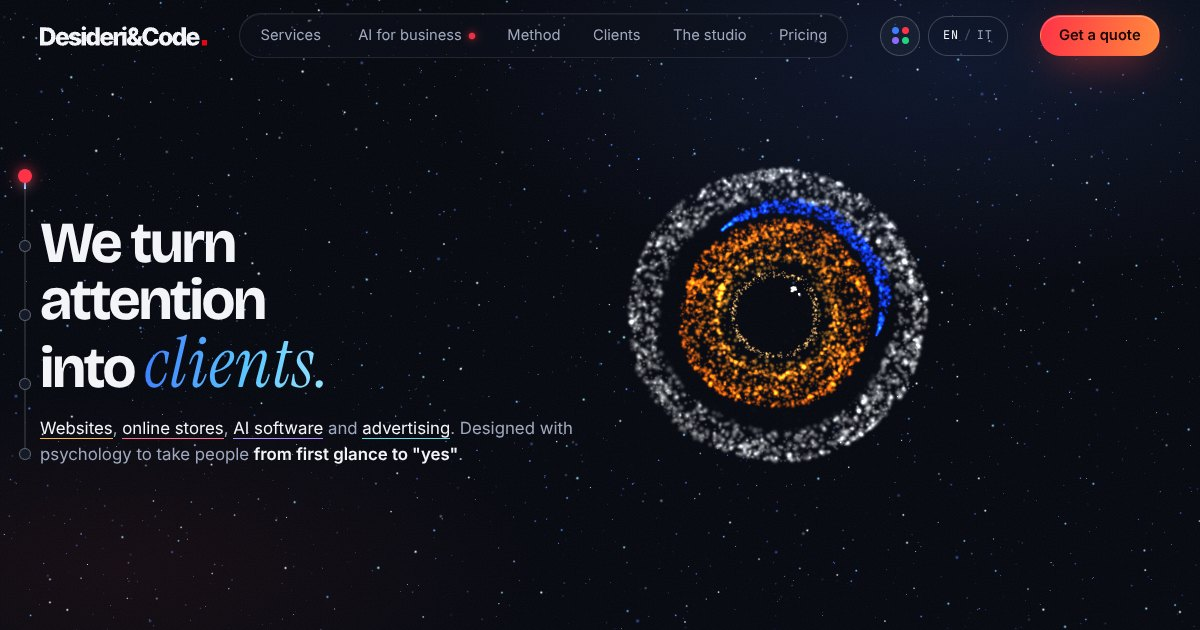
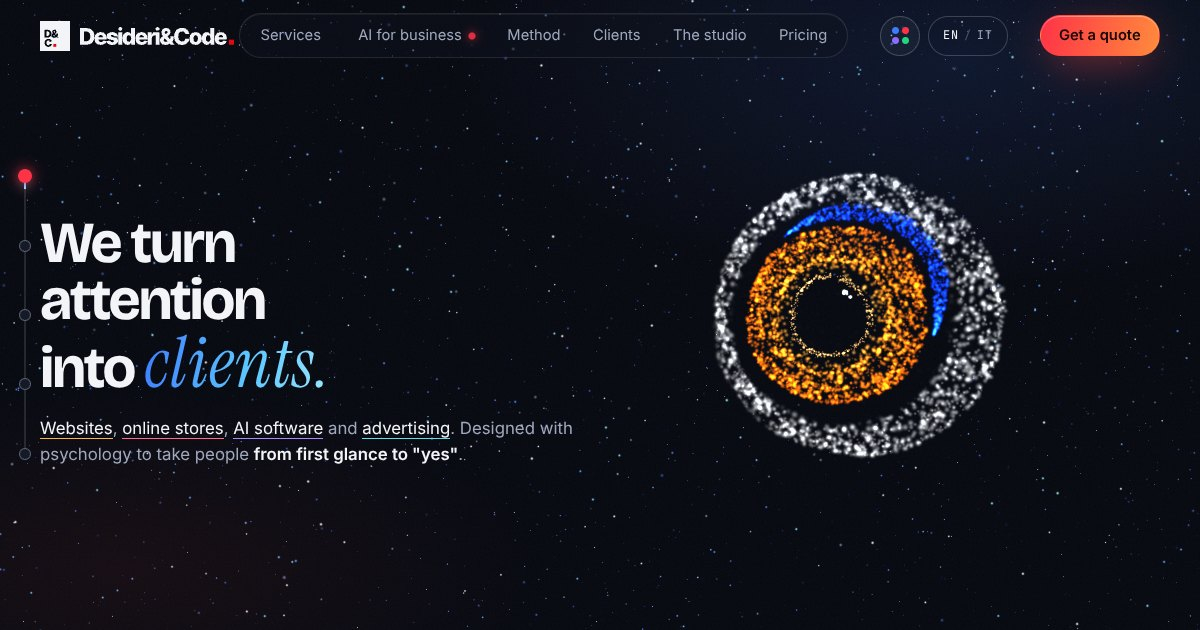
Header con icona e scritta, marchio in fondo al footer su telefono
- Header: l'icona quadrata accanto alla scritta, tutte e due un po' più
  piccole (su telefono ancora di più).
- Footer: l'icona sopra la scritta. Su telefono il marchio chiude il footer,
  centrato sotto privacy e cookie.
- Anteprime dei link rifatte con il nuovo header.

Claude-Session: https://claude.ai/code/session_01NiGGEJbCXDT9DhRUzuRYxp

Changed region(s): [[0.5242, 0.2413, 0.8633, 0.754], [0.0308, 0.0302, 0.2158, 0.0905]]

diff --git a/src/styles/global.css b/src/styles/global.css
@@ -181,9 +181,20 @@ html.intro-fine .intro-punto { animation: intro-esplodi .7s var(--ease) forwards
 .header-bar { display: flex; align-items: center; gap: 2rem; width: 100%; }
 .brand { display: inline-flex; align-items: center; gap: .8rem; text-decoration: none; margin-right: auto; }
 /* logo «Desideri&Code»: lettere nel colore del testo, quadratino rosso fisso (public/brand per gli altri usi) */
-.brand-logo { display: block; color: var(--latte); line-height: 0; }
-.brand-logo svg { display: block; height: 22px; width: auto; }
-@media (max-width: 480px) { .site-header .brand-logo svg { height: 17px; } }
+.brand-logo, .brand-icona { display: block; color: var(--latte); line-height: 0; flex: none; }
+.brand-logo svg { display: block; height: 18px; width: auto; }
+.brand-icona svg { display: block; width: 30px; height: 30px; }
+.site-header .brand { gap: .6rem; }
+@media (max-width: 480px) { .site-header .brand-logo svg { height: 14px; } .site-header .brand-icona svg { width: 26px; height: 26px; } .site-header .brand { gap: .5rem; } }
+/* footer: icona sopra, scritta sotto */
+.brand-impilato { flex-direction: column; align-items: flex-start; gap: .8rem; }
+.brand-impilato .brand-icona svg { width: 56px; height: 56px; }
+.footer-marchio { display: none; text-decoration: none; }
+@media (max-width: 820px) {
+  .footer-grid > div:first-child > .brand { display: none; }
+  .footer-marchio { display: flex; align-items: center; margin: 2.6rem auto 0; width: max-content; }
+  .footer-marchio .brand-logo svg { height: 24px; }
+}
 /* Il punto rosso del logo: lo stimolo che cattura l'attenzione. Pulsa piano, come la spia "REC". */
 .punto-segnale { transform-box: fill-box; transform-origin: center; animation: segnale 2.4s ease-in-out infinite; }
 @keyframes segnale { 0%, 100% { opacity: 1; transform: scale(1); filter: drop-shadow(0 0 3px rgba(255, 51, 71, .9)); } 50% { opacity: .35; transform: scale(.82); filter: drop-shadow(0 0 0 rgba(255, 51, 71, 0)); } }
@@ -191,7 +202,7 @@ html.intro-fine .intro-punto { animation: intro-esplodi .7s var(--ease) forwards
 @media (max-width: 900px) { .site-header .punto-segnale { scale: 1.7; } }
 .footer-grid a.brand { color: var(--latte); }
 .footer-grid .brand-ruolo { margin-top: .9rem; font-size: .68rem; }
-.footer-grid .brand-logo svg { height: 32px; }
+.footer-grid .brand-logo svg { height: 28px; }
 .brand-ruolo { display: block; font-family: var(--f-mono); font-size: .62rem; letter-spacing: .12em; text-transform: uppercase; color: var(--nebbia); margin-top: .3rem; }
 /* Menu a capsula: una luce scivola sotto la voce che guardi; in home si accende la sezione in vista */
 .nav { position: relative; display: flex; align-items: center; gap: 2px; padding: 5px; border-radius: 999px; border: 1px solid var(--linea); background: rgba(var(--sup-rgb),.45); backdrop-filter: blur(14px) saturate(1.3); -webkit-backdrop-filter: blur(14px) saturate(1.3); box-shadow: inset 0 1px 0 rgba(var(--latte-rgb),.06); }

diff --git a/docs/02-benchmark-e-concept-sito.md b/docs/02-benchmark-e-concept-sito.md
@@ -142,7 +142,7 @@ Il nome è **Desideri & Code**. «Studio Desideri» era già usato da un concorr
 - **Icona:** un quadrato nero con «D&» sopra e «C» sotto, bianchi in basso a sinistra, più il quadratino rosso. Serve per favicon, social e app.
 - **Colori:** nero `#0A0A0A`, rosso `#E30613`, bianco `#FFFFFF`. La mascotte (l'occhio) resta il personaggio del sito: intro, scena 3D, demo e messaggi. Non fa più da logo.
 - **File:** le lettere sono tracciati, quindi non serve il font. Si generano con uno script che non è nel repo (gira in una cartella di lavoro, con il font Inter Tight).
-  - `src/assets/logo-scritta.svg` è la scritta per header e footer: le lettere prendono il colore del testo (`currentColor`), il quadratino resta rosso.
+  - `src/assets/logo-scritta.svg` e `src/assets/logo-icona.svg` sono la scritta e l'icona del sito, con lettere e quadrato nel colore del testo (`currentColor`) e il quadratino sempre rosso. Nell'header l'icona sta accanto alla scritta, in piccolo. Nel footer l'icona sta sopra la scritta; su telefono il marchio chiude il footer, in fondo e centrato.
   - In `public/brand/` ci sono la scritta nera e bianca, l'icona (nera, chiara, con angoli arrotondati per le app, PNG a 1024 px), il logo completo nero e bianco e la mascotte.
   - `public/favicon.svg`, `public/img/icona-512.png` e `apple-touch-icon.png` sono l'icona. `public/img/og.jpg` e `og-en.jpg` sono le anteprime per i link.
 - Nei titoli delle pagine il nome va dopo il punto: «Siti web · Desideri & Code». In fattura: «Desideri & Code di Gabriele Desideri».
